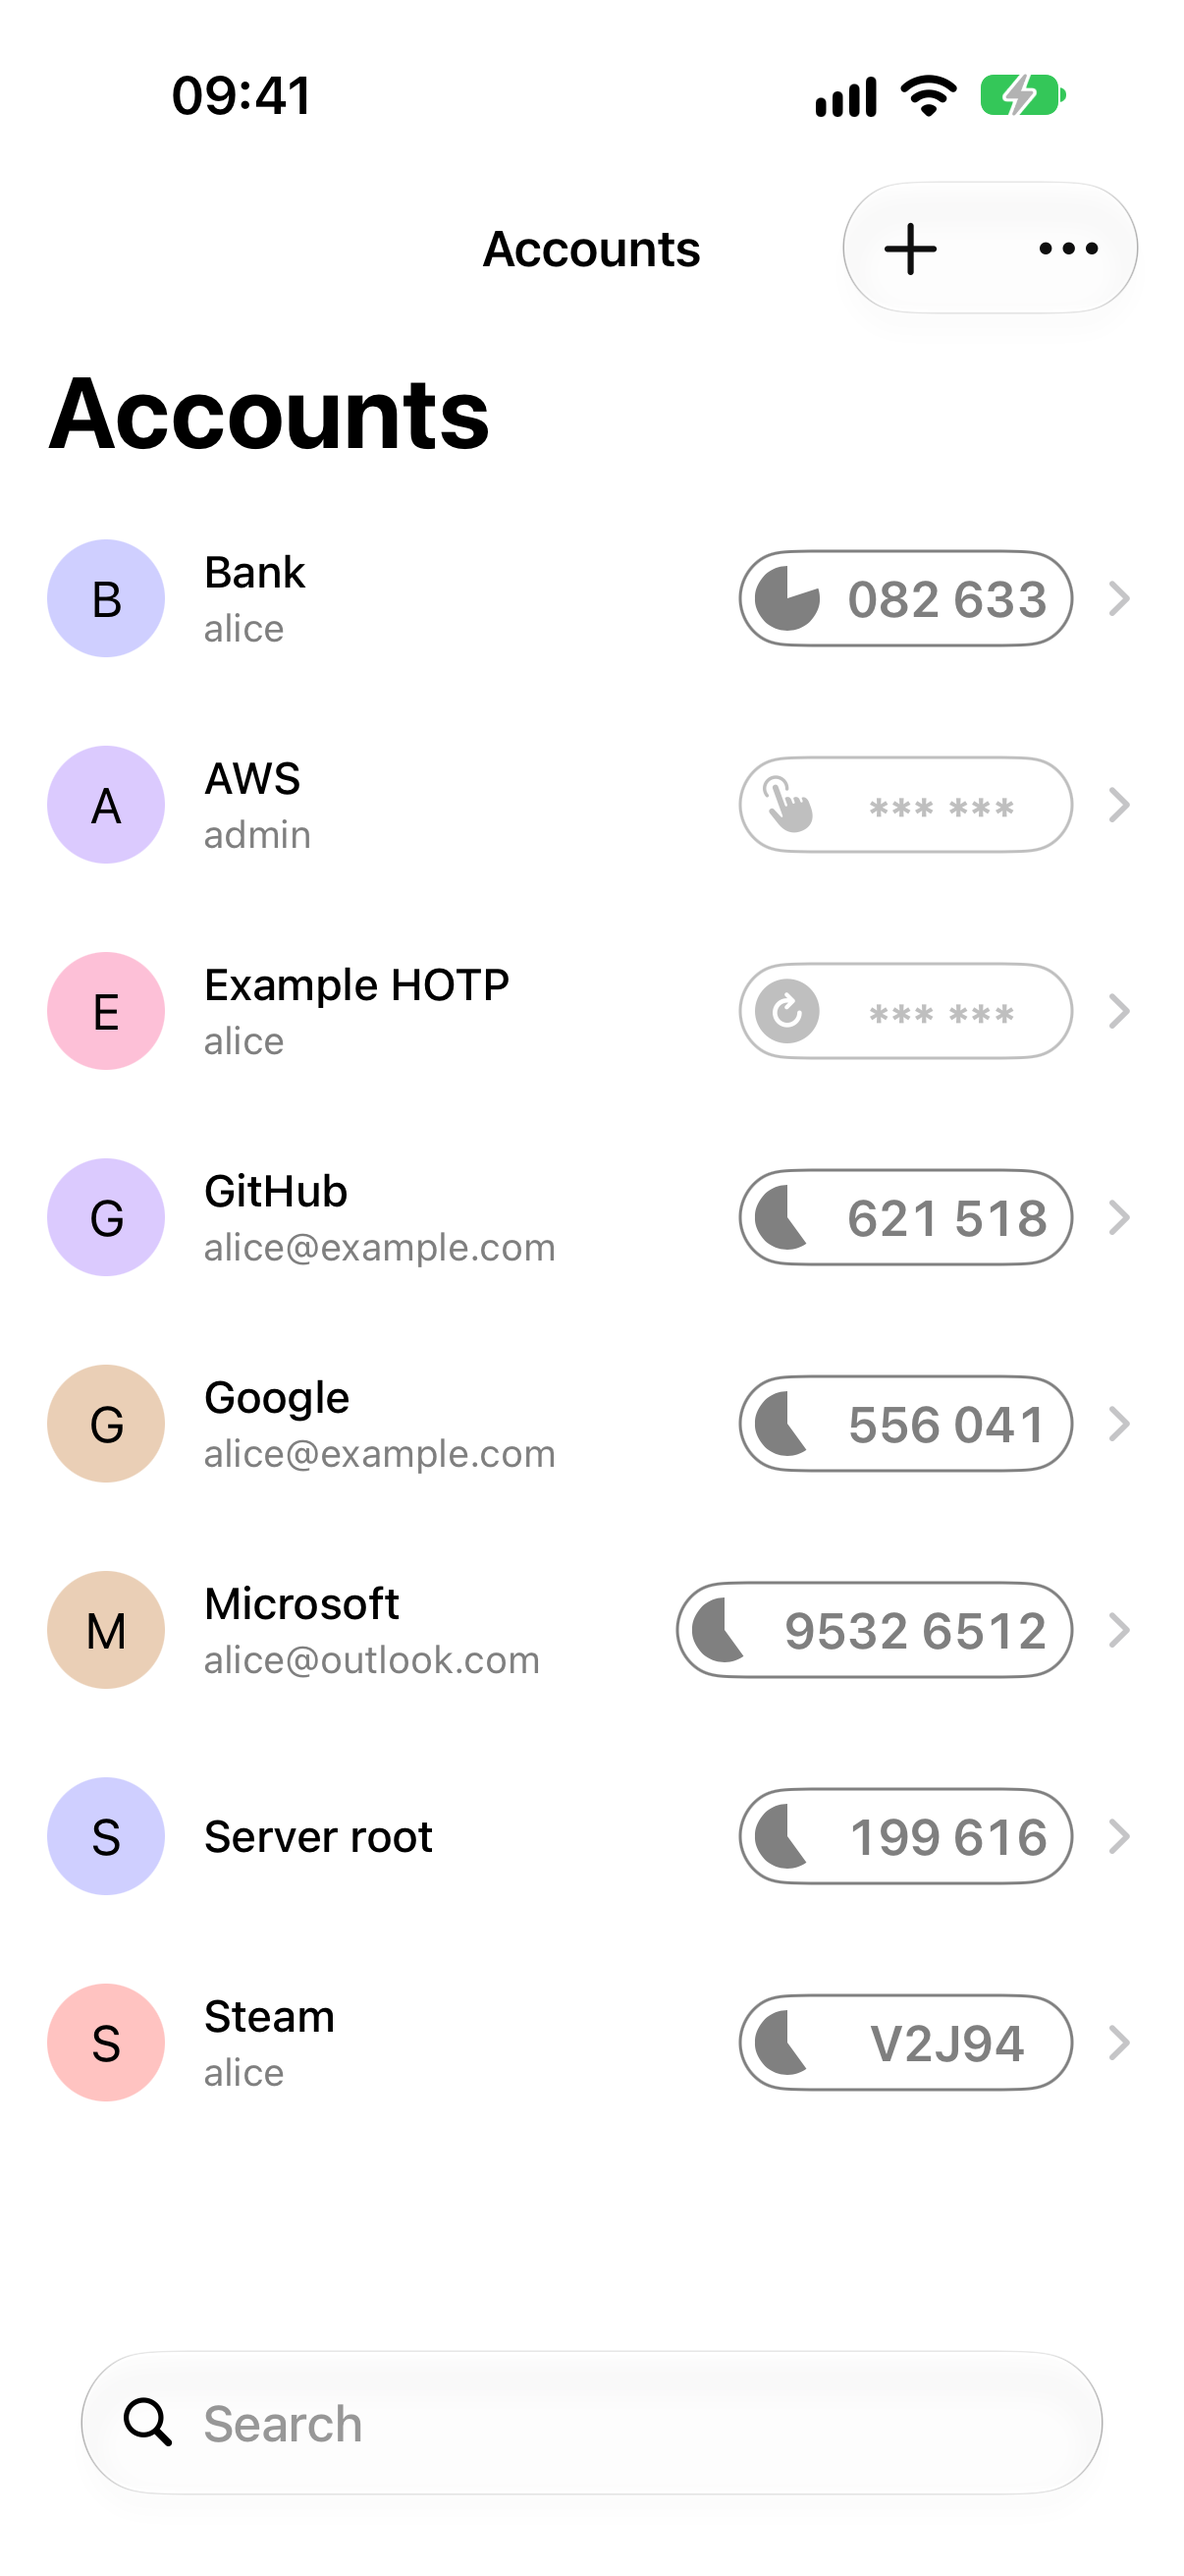
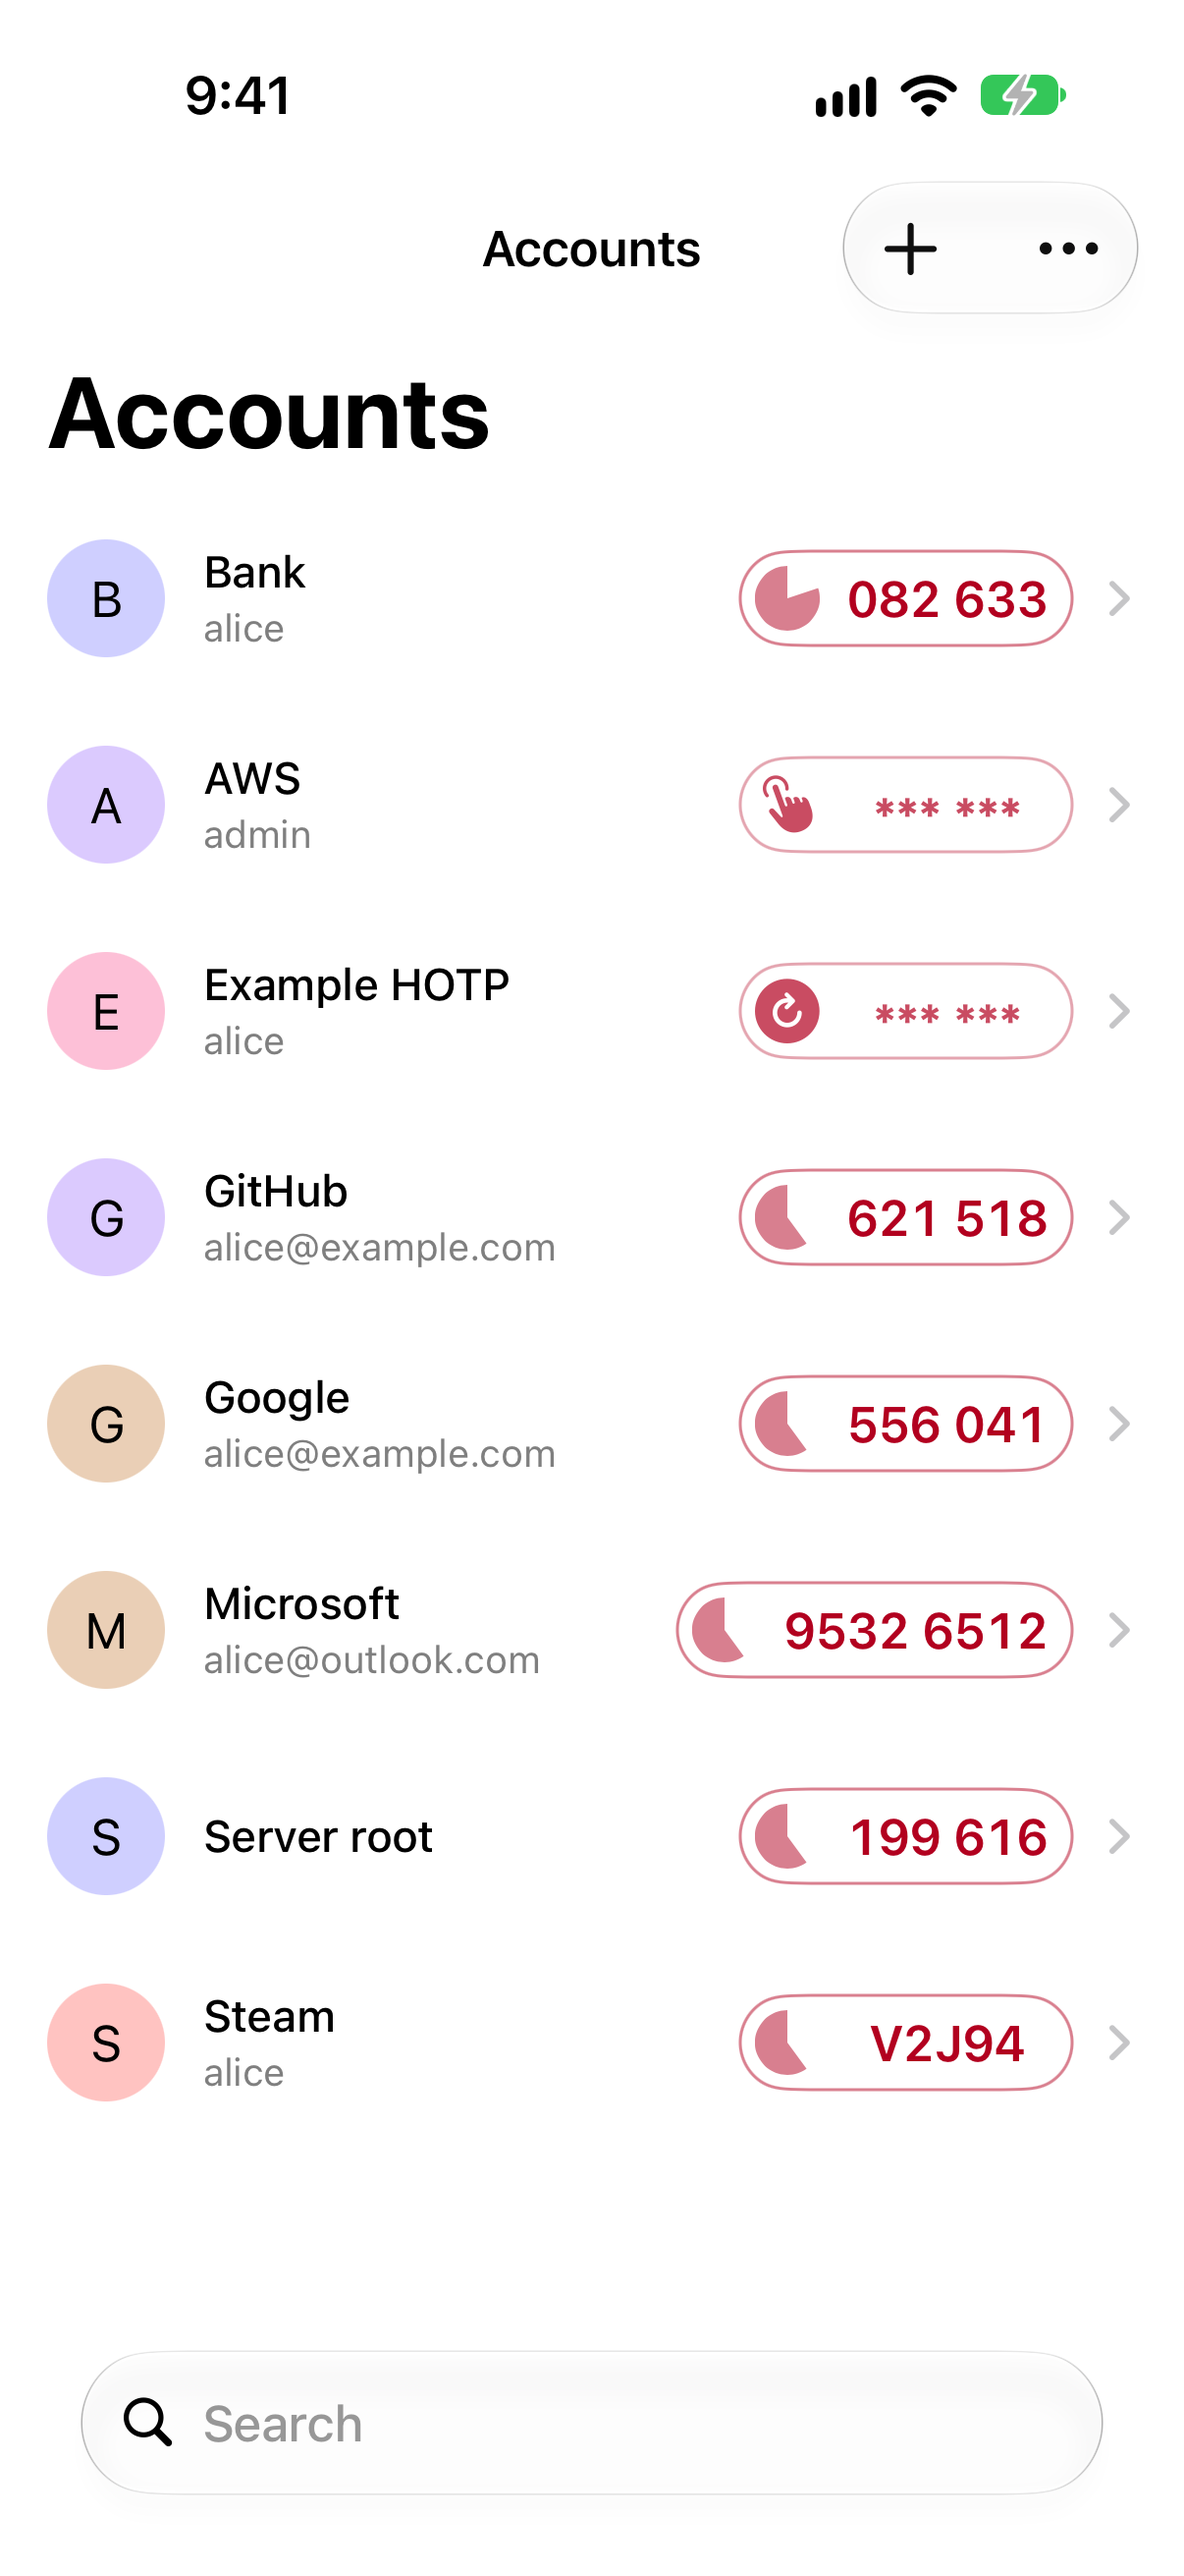
Fix and speed up the screenshot runs, and update the iPhone screenshots
* Drop the app group and AutoFill entitlements from the Mac screenshot build

The Mac screenshots are signed ad hoc, and the script gives every target, the UI test runner included, the app's
entitlements without the keychain access group. #84 added the app group and the AutoFill credential provider
entitlements, which need a provisioning profile, so launchd refused to start the runner (RunningBoard error 5). The
script now drops them as the Mac tests in swift.yml do. The test also passes the fake Ente server as a launch
argument, so it signs in to it on a Mac whose app was already signed in to another server.

* Run a failed iPhone screenshot or audit test once more

On a busy runner the simulator took minutes to answer a UI query, and testLightAppearance timed out after the tutorial
in the Screenshots run for #84. A test that fails now runs a second time; a real failure fails both times.

* Take only the screenshots in the Screenshots workflow

The iPhone job took about 23 minutes: 8 to build, then 15 of accessibility
audits and tap tests one after the other, while the screenshots take half a
minute. The audits and tap tests move to a new Accessibility workflow that is
run by hand, with tools/screenshots.sh audits. The script builds once, runs
the tests without building again, and boots the simulator during the build.

* Update the iPhone README screenshots

Taken by the Screenshots workflow on main. They show the codes in the app's accent color and the status bar's
[…]

diff --git a/AuthenticatorUITests/AccessibilityAuditTests.swift b/AuthenticatorUITests/AccessibilityAuditTests.swift
@@ -62,20 +62,20 @@ final class AccessibilityAuditTests: XCTestCase {
     /// The same in dark mode. Clipped text is checked at the largest text size, where it would show.
     ///
     /// Only the simulator's settings can switch to dark mode and turn on Increase Contrast for the whole app, sheets
-    /// included, so `tools/screenshots.sh` does after the screenshots, and runs this test and the next one again.
+    /// included, so `tools/screenshots.sh audits` does, and runs this test and the next one.
     @MainActor func testDarkAppearance() throws {
         try XCTSkipUnless(ProcessInfo.processInfo.environment["APPEARANCE"] == "dark",
-                          "Runs in dark mode, from tools/screenshots.sh")
+                          "Runs in dark mode, from tools/screenshots.sh audits")
         app.launchArguments = ["-DemoDate", Self.demoDate]
         app.launch()
         try auditMainScreens(for: .contrast, allowsNearlyPassingContrast: true)
     }
 
     /// With Increase Contrast every text and icon has to have the contrast it needs, 4.5:1 for text and 3:1 for large
-    /// text. `tools/screenshots.sh` runs it in light and in dark mode.
+    /// text. `tools/screenshots.sh audits` runs it in light and in dark mode.
     @MainActor func testIncreasedContrast() throws {
         try XCTSkipUnless(ProcessInfo.processInfo.environment["INCREASE_CONTRAST"] == "enabled",
-                          "Runs with Increase Contrast on, from tools/screenshots.sh")
+                          "Runs with Increase Contrast on, from tools/screenshots.sh audits")
         app.launchArguments = ["-DemoDate", Self.demoDate]
         app.launch()
         try auditMainScreens(for: .contrast)

diff --git a/AuthenticatorUITests/MacScreenshotTests.swift b/AuthenticatorUITests/MacScreenshotTests.swift
@@ -34,7 +34,9 @@ final class MacScreenshotTests: XCTestCase {
         app.launchArguments = ["-SimulatedYubiKey", "YES", "-DemoDate", Self.demoDate,
                                // A fresh window at its default size, in light mode, every run.
                                "-ApplePersistenceIgnoreState", "YES", "-NSQuitAlwaysKeepsWindows", "NO",
-                               "-DemoAppearance", "light", "-DemoWindowSize", "1280x800", "-Mac.ShowInMenuBar", "YES"]
+                               "-DemoAppearance", "light", "-DemoWindowSize", "1280x800", "-Mac.ShowInMenuBar", "YES",
+                               // The fake Ente server, even if this Mac's app has signed in to another one.
+                               "-EnteAuth.ServerURL", "https://demo.ente.test"]
         app.launch()
         app.activate()
     }

diff --git a/docs/accessibility.md b/docs/accessibility.md
@@ -144,15 +144,15 @@ Shortcuts, Spotlight, Apple Intelligence), Add Account and Copy Code on the Mac,
 `AuthenticatorUITests/AccessibilityAuditTests.swift` runs Xcode's accessibility audit
 (`performAccessibilityAudit`) on the main screens with the simulated YubiKey and fake Ente server: the account list
 and details, the Ente sign in and account list, Configuration, About, the tutorial, the app icons, the QR scanner and
-the add account form. It runs with the screenshots (`tools/screenshots.sh`, and the Screenshots workflow in CI), see
-[screenshots.md](screenshots.md).
+the add account form. It runs with `tools/screenshots.sh audits`, and the Accessibility workflow in CI, which is run by
+hand. See [screenshots.md](screenshots.md).
 
 - `testLightAppearance` fails for text or icons without enough contrast in light mode. Text that nearly passes, like
   the system's secondary labels in places, is left to the Increase Contrast check. Disabled controls are left out, as
   WCAG does, and so is what the keyboard covers.
-- After the screenshots, `tools/screenshots.sh` switches the simulator to dark mode with `simctl` and runs
-  `testDarkAppearance`, the same check in dark mode, then turns on Increase Contrast and runs `testIncreasedContrast`
-  in light and dark mode, where nothing has to nearly pass. The tests skip themselves in a normal run.
+- `tools/screenshots.sh audits` then switches the simulator to dark mode with `simctl` and runs `testDarkAppearance`,
+  the same check in dark mode, then turns on Increase Contrast and runs `testIncreasedContrast` in light and dark
+  mode, where nothing has to nearly pass. The tests skip themselves in a normal run.
 - `testRightToLeft` launches with the right-to-left pseudolanguage (`-AppleTextDirection YES
   -NSForceRightToLeftWritingDirection YES`), English text in a mirrored layout, at the largest text size, and fails for clipped text.
 - `testLargestTextSize` launches at the largest accessibility text size (AX5) and fails for clipped text and text

diff --git a/docs/screenshots.md b/docs/screenshots.md
@@ -28,16 +28,22 @@ tools/screenshots.sh
 ```
 
 This needs Xcode and `jq`. The script creates a simulator for the newest iPhone Pro (set `DEVICE_TYPE`, e.g.
-`DEVICE_TYPE="iPhone 17 Pro"`, to pick another one), runs `OrielOTPUITests` with the `Screenshots` scheme and
+`DEVICE_TYPE="iPhone 17 Pro"`, to pick another one), builds the `Screenshots` scheme once, runs `OrielOTPUITests` and
 deletes the simulator again. Screenshots whose bytes changed are copied to `docs/screenshots/`; the others are left
 alone.
 
 The test is `AuthenticatorUITests/ScreenshotTests.swift`. To add a screenshot, navigate to the screen there and
 call `save("name")`, then add `docs/screenshots/name.png` to the README.
 
-The same run has `AuthenticatorUITests/AccessibilityAuditTests.swift`, which goes through the main screens and runs
-Xcode's accessibility audit on each. It fails for every issue it finds, so a screen that breaks at a large text size
-fails the screenshots job. See [accessibility.md](accessibility.md).
+The same script runs the accessibility audits in `AuthenticatorUITests/AccessibilityAuditTests.swift` and the tap
+to copy tests, which take about 13 minutes more, when asked to:
+
+```bash
+tools/screenshots.sh audits
+```
+
+In CI they're the Accessibility workflow, which is run by hand, e.g. before a release or after changing a screen's
+layout or colors. See [accessibility.md](accessibility.md).
 
 ## The Mac screenshots
 
